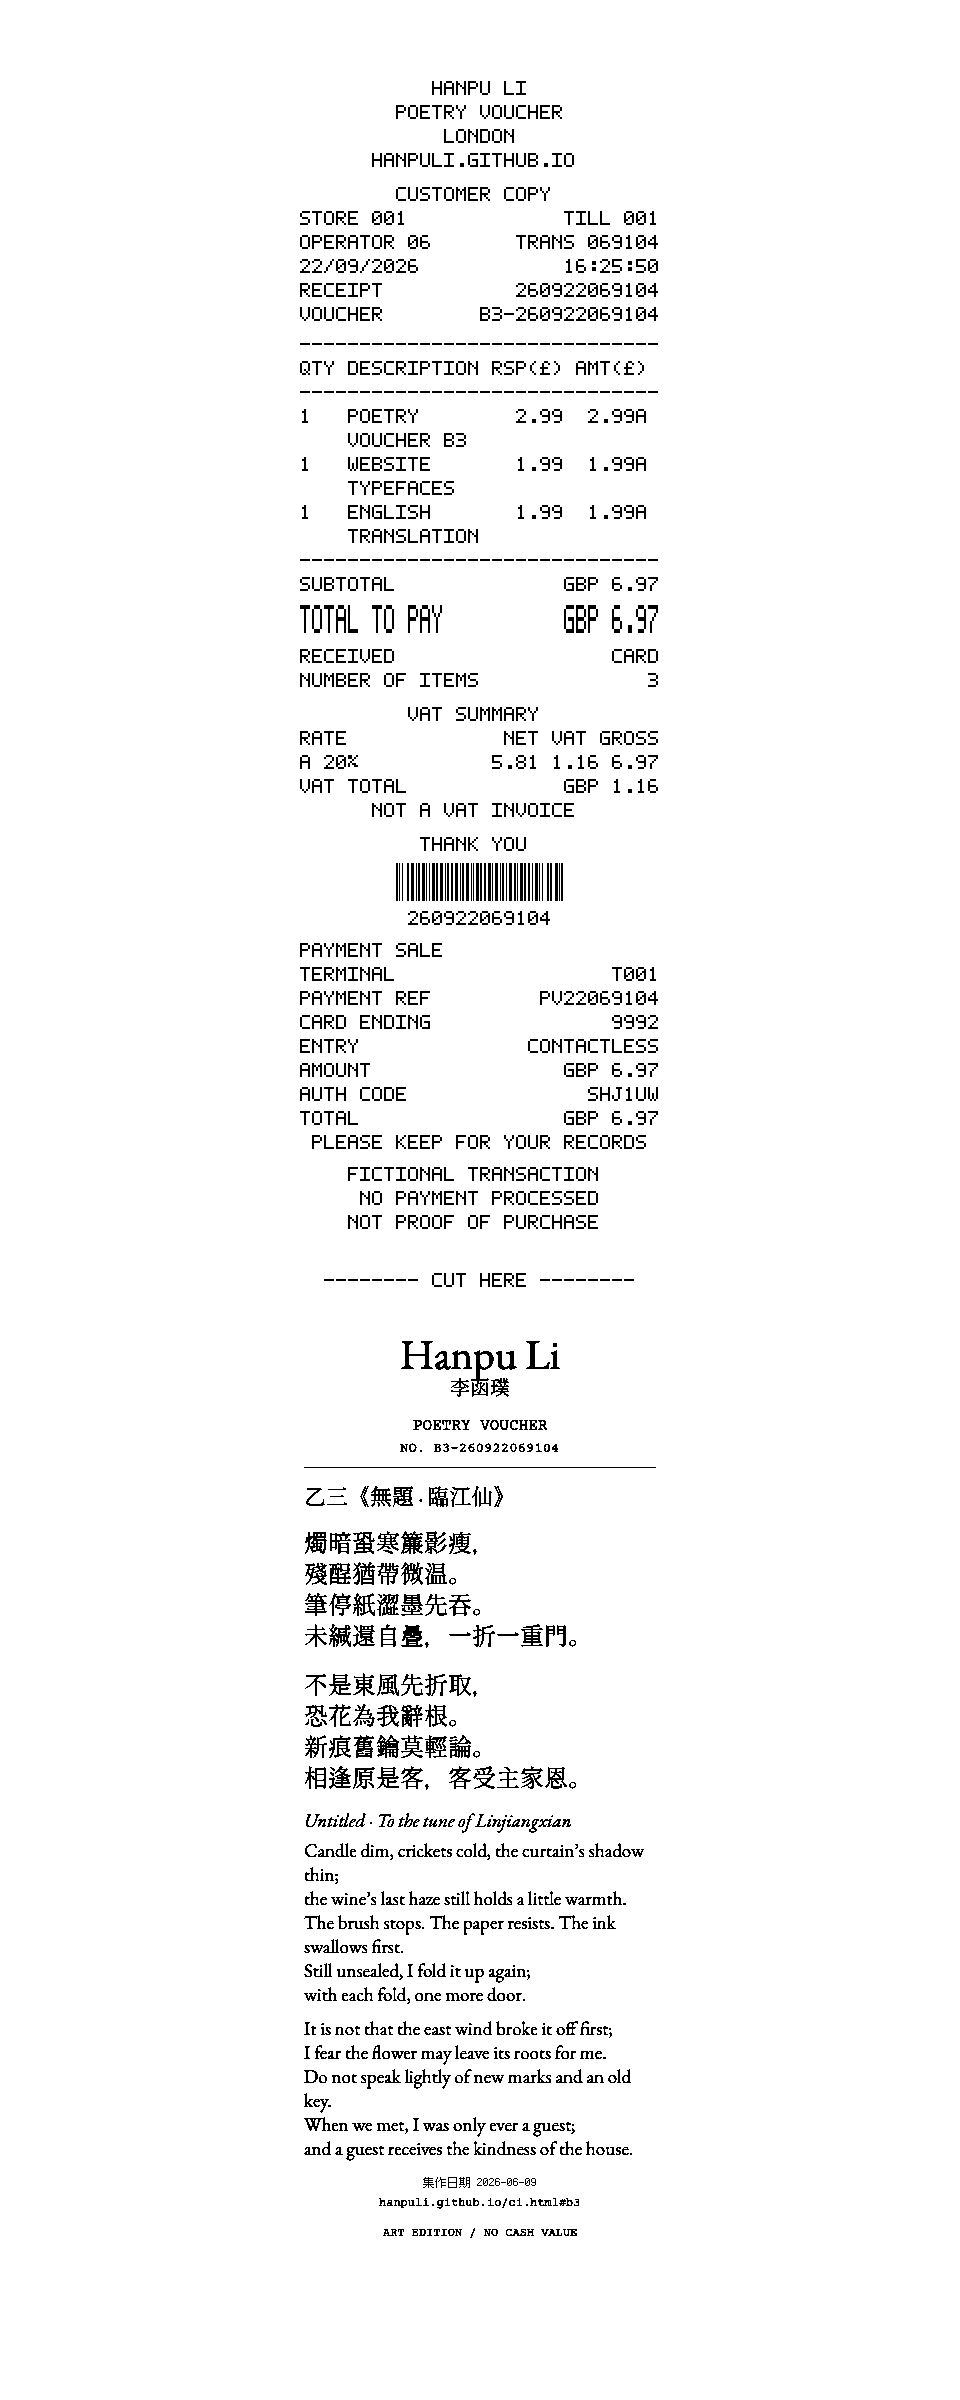
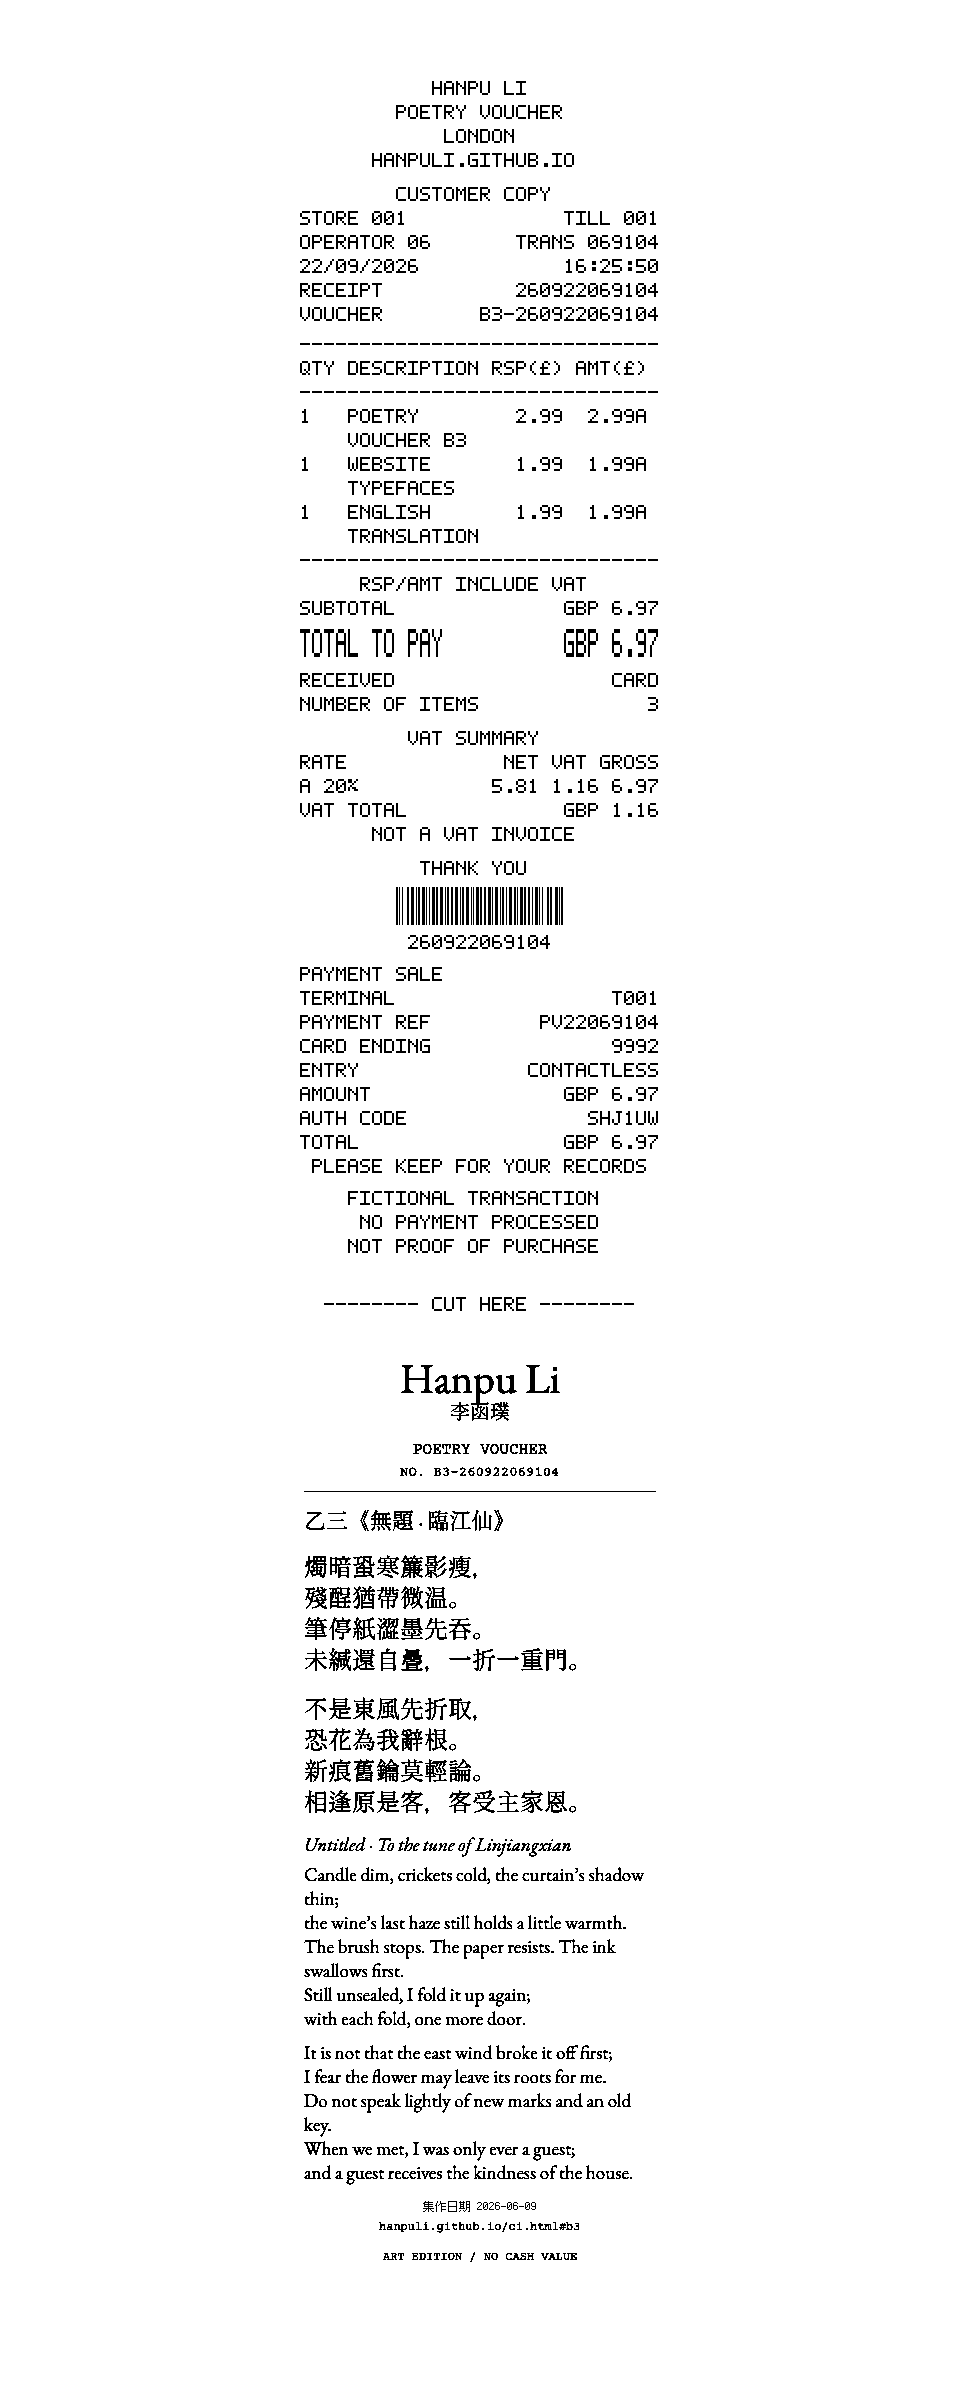
Clarify VAT-inclusive receipt prices

Changed region(s): [[0.3125, 0.25, 0.6875, 0.9375]]

diff --git a/ru/poetry-voucher/index.html b/ru/poetry-voucher/index.html
@@ -90,7 +90,7 @@
     <div class="pv-description"><p>Издание из двух частей: вымышленный кассовый чек и отдельный талон с полным текстом стихотворения. Выберите опубликованное произведение или наберите свой текст для термобумаги шириной 58 мм.</p><a class="pv-cta" href="/poetry-voucher/make.html?lang=ru">Создать поэтический талон</a><a class="pv-text-link" href="/ru/ci.html">Читать стихи</a></div>
   </section>
   <figure class="pv-sample" aria-label="Цифровой образец B3 с вымышленным чеком и отдельным поэтическим талоном">
-    <div class="pv-papers"><div><p>01 / Чек</p><img src="/poetry-voucher/sample-receipt.png" width="384" height="1038" alt="01 / Чек" decoding="async"></div><div><p>02 / Стихотворение</p><img src="/poetry-voucher/sample-voucher.png" width="384" height="575" alt="02 / Стихотворение" decoding="async"></div></div>
+    <div class="pv-papers"><div><p>01 / Чек</p><img src="/poetry-voucher/sample-receipt.png" width="384" height="1062" alt="01 / Чек" decoding="async"></div><div><p>02 / Стихотворение</p><img src="/poetry-voucher/sample-voucher.png" width="384" height="575" alt="02 / Стихотворение" decoding="async"></div></div>
     <figcaption>Цифровой образец · B3 · оригинал</figcaption>
   </figure>
   <div class="pv-notes">

diff --git a/de/poetry-voucher/index.html b/de/poetry-voucher/index.html
@@ -90,7 +90,7 @@
     <div class="pv-description"><p>Eine zweiteilige Edition: ein fiktiver Kassenbon und ein separater Bon mit dem vollständigen Gedicht. Wählen Sie ein veröffentlichtes Werk oder setzen Sie eigenen Text für 58 mm breites Thermopapier.</p><a class="pv-cta" href="/poetry-voucher/make.html?lang=de">Einen Gedichtbon gestalten</a><a class="pv-text-link" href="/de/ci.html">Gedichte lesen</a></div>
   </section>
   <figure class="pv-sample" aria-label="Digitales Muster B3 mit fiktivem Kassenbon und separatem Gedichtbon">
-    <div class="pv-papers"><div><p>01 / Kassenbon</p><img src="/poetry-voucher/sample-receipt.png" width="384" height="1038" alt="01 / Kassenbon" decoding="async"></div><div><p>02 / Gedicht</p><img src="/poetry-voucher/sample-voucher.png" width="384" height="575" alt="02 / Gedicht" decoding="async"></div></div>
+    <div class="pv-papers"><div><p>01 / Kassenbon</p><img src="/poetry-voucher/sample-receipt.png" width="384" height="1062" alt="01 / Kassenbon" decoding="async"></div><div><p>02 / Gedicht</p><img src="/poetry-voucher/sample-voucher.png" width="384" height="575" alt="02 / Gedicht" decoding="async"></div></div>
     <figcaption>Digitales Muster · B3 · Originaltext</figcaption>
   </figure>
   <div class="pv-notes">

diff --git a/poetry-voucher/index.html b/poetry-voucher/index.html
@@ -90,7 +90,7 @@
     <div class="pv-description"><p>A two-part edition: a fictional till receipt, followed by a voucher carrying the poem. Choose a published work or set your own text in a format made for 58 mm thermal paper.</p><a class="pv-cta" href="/poetry-voucher/make.html?lang=en">Make a voucher</a><a class="pv-text-link" href="/ci.html">Read the poems</a></div>
   </section>
   <figure class="pv-sample" aria-label="Poetry Voucher B3 digital specimen, with a fictional receipt and a separate poem voucher">
-    <div class="pv-papers"><div><p>01 / The receipt</p><img src="/poetry-voucher/sample-receipt.png" width="384" height="1038" alt="01 / The receipt" decoding="async"></div><div><p>02 / The poem</p><img src="/poetry-voucher/sample-voucher.png" width="384" height="575" alt="02 / The poem" decoding="async"></div></div>
+    <div class="pv-papers"><div><p>01 / The receipt</p><img src="/poetry-voucher/sample-receipt.png" width="384" height="1062" alt="01 / The receipt" decoding="async"></div><div><p>02 / The poem</p><img src="/poetry-voucher/sample-voucher.png" width="384" height="575" alt="02 / The poem" decoding="async"></div></div>
     <figcaption>Digital specimen · B3 · original text</figcaption>
   </figure>
   <div class="pv-notes">

diff --git a/fr/poetry-voucher/index.html b/fr/poetry-voucher/index.html
@@ -90,7 +90,7 @@
     <div class="pv-description"><p>Une édition en deux parties : un ticket de caisse fictif, puis un bon portant le poème intégral. Choisissez une œuvre publiée ou composez votre texte pour un papier thermique de 58 mm.</p><a class="pv-cta" href="/poetry-voucher/make.html?lang=fr">Créer un bon poétique</a><a class="pv-text-link" href="/fr/ci.html">Lire les poèmes</a></div>
   </section>
   <figure class="pv-sample" aria-label="Épreuve B3 avec ticket fictif et bon poétique séparé">
-    <div class="pv-papers"><div><p>01 / Le ticket</p><img src="/poetry-voucher/sample-receipt.png" width="384" height="1038" alt="01 / Le ticket" decoding="async"></div><div><p>02 / Le poème</p><img src="/poetry-voucher/sample-voucher.png" width="384" height="575" alt="02 / Le poème" decoding="async"></div></div>
+    <div class="pv-papers"><div><p>01 / Le ticket</p><img src="/poetry-voucher/sample-receipt.png" width="384" height="1062" alt="01 / Le ticket" decoding="async"></div><div><p>02 / Le poème</p><img src="/poetry-voucher/sample-voucher.png" width="384" height="575" alt="02 / Le poème" decoding="async"></div></div>
     <figcaption>Épreuve numérique · B3 · texte original</figcaption>
   </figure>
   <div class="pv-notes">

diff --git a/ja/poetry-voucher/index.html b/ja/poetry-voucher/index.html
@@ -90,7 +90,7 @@
     <div class="pv-description"><p>架空の会計レシートと、詩の全文を収めた券。公開作品を選ぶか、自分の文章を58ミリの感熱紙のために組版できます。</p><a class="pv-cta" href="/poetry-voucher/make.html?lang=ja">詩の券を作る</a><a class="pv-text-link" href="/ja/ci.html">原作を読む</a></div>
   </section>
   <figure class="pv-sample" aria-label="乙三のデジタル見本。架空レシートと独立した詩の券">
-    <div class="pv-papers"><div><p>01 / レシート</p><img src="/poetry-voucher/sample-receipt.png" width="384" height="1038" alt="01 / レシート" decoding="async"></div><div><p>02 / 詩の券</p><img src="/poetry-voucher/sample-voucher.png" width="384" height="575" alt="02 / 詩の券" decoding="async"></div></div>
+    <div class="pv-papers"><div><p>01 / レシート</p><img src="/poetry-voucher/sample-receipt.png" width="384" height="1062" alt="01 / レシート" decoding="async"></div><div><p>02 / 詩の券</p><img src="/poetry-voucher/sample-voucher.png" width="384" height="575" alt="02 / 詩の券" decoding="async"></div></div>
     <figcaption>デジタル見本 · 乙三 · 原文</figcaption>
   </figure>
   <div class="pv-notes">

diff --git a/zh-hans/poetry-voucher/index.html b/zh-hans/poetry-voucher/index.html
@@ -90,7 +90,7 @@
     <div class="pv-description"><p>一份分成两段的作品：上段是一笔虚构交易，下段是载有完整诗文的券。选择已发表作品，或排入自己的文字，带走一份为 58 毫米热敏纸设计的版本。</p><a class="pv-cta" href="/poetry-voucher/make.html?lang=zh-Hans">制作一张诗券</a><a class="pv-text-link" href="/zh-hans/ci.html">阅读原作</a></div>
   </section>
   <figure class="pv-sample" aria-label="乙三诗券数字样本，包含虚构小票及独立诗券">
-    <div class="pv-papers"><div><p>01 / 小票</p><img src="/poetry-voucher/sample-receipt.png" width="384" height="1038" alt="01 / 小票" decoding="async"></div><div><p>02 / 诗券</p><img src="/poetry-voucher/sample-voucher.png" width="384" height="575" alt="02 / 诗券" decoding="async"></div></div>
+    <div class="pv-papers"><div><p>01 / 小票</p><img src="/poetry-voucher/sample-receipt.png" width="384" height="1062" alt="01 / 小票" decoding="async"></div><div><p>02 / 诗券</p><img src="/poetry-voucher/sample-voucher.png" width="384" height="575" alt="02 / 诗券" decoding="async"></div></div>
     <figcaption>数字样本 · 乙三 · 原文</figcaption>
   </figure>
   <div class="pv-notes">

diff --git a/zh/poetry-voucher/index.html b/zh/poetry-voucher/index.html
@@ -90,7 +90,7 @@
     <div class="pv-description"><p>一份分成兩段的作品：上段是一筆虛構交易，下段是載有完整詩文的券。選擇已發表作品，或排入自己的文字，帶走一份為 58 毫米熱敏紙設計的版本。</p><a class="pv-cta" href="/poetry-voucher/make.html?lang=zh-Hant">製作一張詩券</a><a class="pv-text-link" href="/zh/ci.html">閱讀原作</a></div>
   </section>
   <figure class="pv-sample" aria-label="乙三詩券數位樣本，包含虛構小票及獨立詩券">
-    <div class="pv-papers"><div><p>01 / 小票</p><img src="/poetry-voucher/sample-receipt.png" width="384" height="1038" alt="01 / 小票" decoding="async"></div><div><p>02 / 詩券</p><img src="/poetry-voucher/sample-voucher.png" width="384" height="575" alt="02 / 詩券" decoding="async"></div></div>
+    <div class="pv-papers"><div><p>01 / 小票</p><img src="/poetry-voucher/sample-receipt.png" width="384" height="1062" alt="01 / 小票" decoding="async"></div><div><p>02 / 詩券</p><img src="/poetry-voucher/sample-voucher.png" width="384" height="575" alt="02 / 詩券" decoding="async"></div></div>
     <figcaption>數位樣本 · 乙三 · 原文</figcaption>
   </figure>
   <div class="pv-notes">

diff --git a/content/poetry-voucher-app/gallery.js b/content/poetry-voucher-app/gallery.js
@@ -396,7 +396,7 @@ function render(spec){
   p.till(date,time);p.till('RECEIPT',ref);p.till('VOUCHER',voucher);p.space(6);
   p.till(separator);p.till(receiptItemLine('QTY','DESCRIPTION','RSP(£)','AMT(£)'));p.till(separator);
   for(const item of items)for(const line of receiptItemRows(item,code))p.till(line);
-  p.till(separator);
+  p.till(separator);p.till('RSP/AMT INCLUDE VAT',null,true);
   p.till('SUBTOTAL',currency+' '+priceText(spec.price));
   p.till('TOTAL TO PAY',currency+' '+priceText(spec.price),false,true);
   if(spec.method==='card')p.till('RECEIVED','CARD');

diff --git a/poetry-voucher/gallery.js b/poetry-voucher/gallery.js
@@ -396,7 +396,7 @@ function render(spec){
   p.till(date,time);p.till('RECEIPT',ref);p.till('VOUCHER',voucher);p.space(6);
   p.till(separator);p.till(receiptItemLine('QTY','DESCRIPTION','RSP(£)','AMT(£)'));p.till(separator);
   for(const item of items)for(const line of receiptItemRows(item,code))p.till(line);
-  p.till(separator);
+  p.till(separator);p.till('RSP/AMT INCLUDE VAT',null,true);
   p.till('SUBTOTAL',currency+' '+priceText(spec.price));
   p.till('TOTAL TO PAY',currency+' '+priceText(spec.price),false,true);
   if(spec.method==='card')p.till('RECEIVED','CARD');

diff --git a/content/README.md b/content/README.md
@@ -115,6 +115,8 @@ transaction and tax classification is fictional display data: the receipt says
 that no payment was processed, is not proof of purchase and is not a VAT invoice.
 The specimen models every displayed SKU at an illustrative 20% VAT-inclusive
 rate; this is not a determination of the VAT treatment of an actual supply.
+The item-level `RSP` and `AMT` columns show VAT-inclusive prices; `NET` in the
+VAT summary is the pre-tax amount derived from those displayed prices.
 Public store, till and terminal values are stable display aliases, not hardware
 or merchant identifiers. Operator number, fictional card ending, entry mode and
 authorization code are derived deterministically from the local receipt reference;
